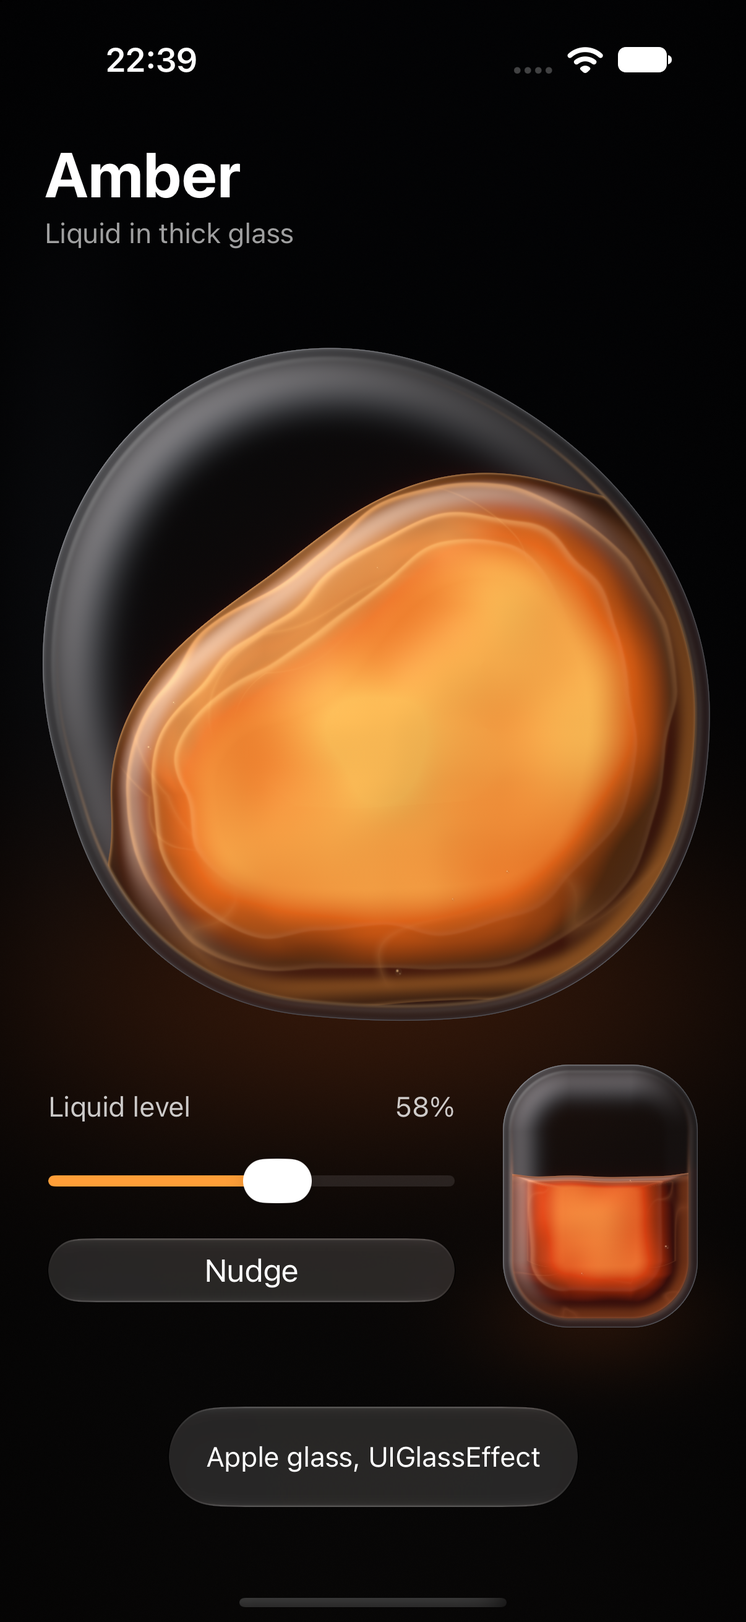
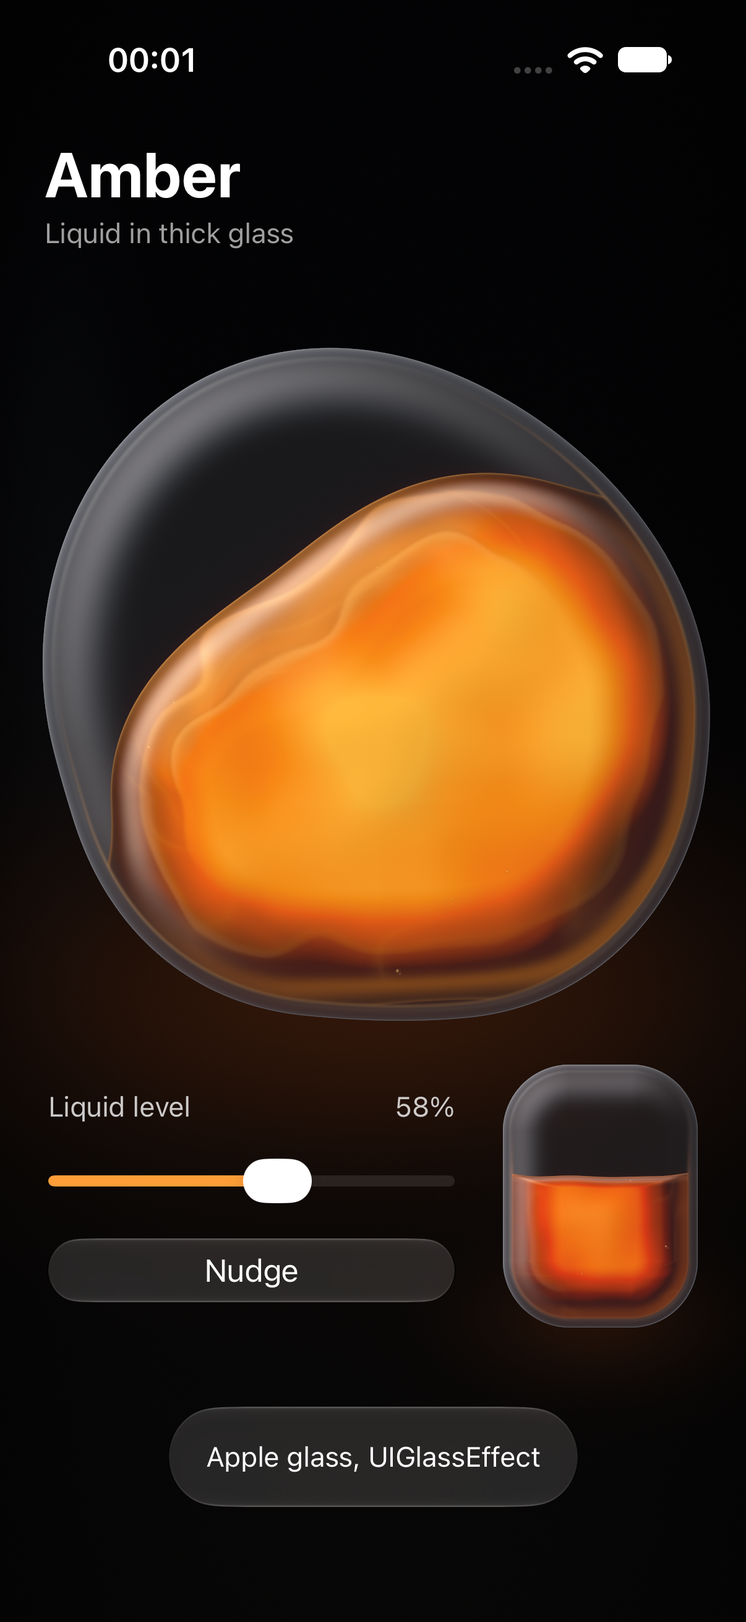
PRESENCE: a livelier body and edge without extra bend, a smooth cap join, a calmer amber vessel
GlassLighting.presence (refined look, opt-in): backdrop pickup, gain, inner edge glow, deeper far side, inlay shade; the plain rim refraction is feathered to nothing at the outline. Softer vessel sheets. Paper desk captions fixed. Recaptured pages beside the native twin.

diff --git a/Sources/GlassWeave/GlassLighting.swift b/Sources/GlassWeave/GlassLighting.swift
@@ -44,6 +44,7 @@ internal import GlassWeaveShaderTypes
 /// | ``edgeDepth`` | normalized | 0...1 | 0 | The refined look's thick-slab shading across the bevel: deeper (darker) toward the side away from the light, a faint inner light on the lit side. 0 draws none. Ignored by ``Look/classic``. |
 /// | ``banding`` | normalized | 0...1 | 0 | The polished finishes' reflection bands across the bevel (``Finish/chrome(tint:)``, ``Finish/prismatic(spread:saturation:phase:)``): alternating bright and dark stripes, as in a polished metal ring. 0 draws none. |
 /// | ``glints`` | normalized | 0...1 | 0 | Small bright glints at fixed angles around a polished rim (one facing the light, a weaker opposite, two faint at the sides), colored by the thin film with the prismatic finish. 0 draws none. |
+/// | ``presence`` | normalized | 0...1 | 0 | The refined look's liveliness without any extra bend: the body picks up the colors behind it softly (a few wide samples of the backdrop), lifts a little in luminance, and the inner edge carries a soft glow that follows the backdrop's color, brighter on the lit side, with a deeper far side. 0 draws none. Ignored by ``Look/classic``. Experimental. |
 ///
 /// **The model** (`docs/glass-optics.md`). With the viewer's direction
 /// `V = (0, 0, 1)` and the light's `L`, the reflected fraction is Schlick's
@@ -173,7 +174,7 @@ public struct GlassLighting: Hashable, Sendable {
         case indexOfRefraction, fresnel, specular, reflection, bloom, bloomWidth, bandWidth
         case chromeTintRed, chromeTintGreen, chromeTintBlue
         case prismaticSpread, prismaticSaturation, prismaticPhase
-        case edgeDepth, banding, glints
+        case edgeDepth, banding, glints, presence
         /// The azimuth passed to ``GlassRenderer/setLightOffset(azimuth:elevation:)``.
         case lightOffsetAzimuth
         /// The elevation passed to ``GlassRenderer/setLightOffset(azimuth:elevation:)``.
@@ -226,6 +227,15 @@ public struct GlassLighting: Hashable, Sendable {
     /// chrome or prismatic finish): at fixed angles from the key light, with
     /// the thin-film hue under the prismatic finish. 0 draws none.
     public var glints: Double
+    /// The refined look's presence, 0...1 (experimental): a livelier body and
+    /// edge that add no bend. The body picks up the backdrop's colors gently
+    /// (a few wide samples of the backdrop around each pixel, never a lens
+    /// offset), gains a slight luminance lift, and the inner edge carries a
+    /// thin glow in the backdrop's own color, brighter on the lit side and
+    /// deeper on the far side. A lens inlay gets a soft shade and its own rim
+    /// light. 0 draws none, byte for byte. Reduce Transparency and Increase
+    /// Contrast remove it.
+    public var presence: Double
 
     /// The longest the bloom can reach: 24 points.
     public static let maximumBloomWidth = 24.0
@@ -250,8 +260,10 @@ public struct GlassLighting: Hashable, Sendable {
         look: Look = .classic,
         edgeDepth: Double = 0,
         banding: Double = 0,
-        glints: Double = 0
+        glints: Double = 0,
+        presence: Double = 0
     ) {
+        self.presence = presence
         self.edgeDepth = edgeDepth
         self.banding = banding
         self.glints = glints
@@ -341,7 +353,7 @@ public struct GlassLighting: Hashable, Sendable {
             (.keySize, key.size),
             (.indexOfRefraction, indexOfRefraction), (.fresnel, fresnel), (.specular, specular),
             (.reflection, reflection), (.bloom, bloom), (.bloomWidth, bloomWidth),
-            (.edgeDepth, edgeDepth), (.banding, banding), (.glints, glints),
+            (.edgeDepth, edgeDepth), (.banding, banding), (.glints, glints), (.presence, presence),
         ]
         if let rim {
             checks += [
@@ -380,6 +392,7 @@ public struct GlassLighting: Hashable, Sendable {
         result.edgeDepth = unit(edgeDepth)
         result.banding = unit(banding)
         result.glints = unit(glints)
+        result.presence = unit(presence)
         result.bloomWidth = min(max(bloomWidth, 0), Self.maximumBloomWidth)
         result.bandWidth = bandWidth.map { min(max($0, 0), maximumLength) }
         switch finish {
@@ -471,7 +484,12 @@ extension GlassPanelGeometry {
             record.keyColor = SIMD4(keyColor, exponent(lighting.key.size))
             record.rim = SIMD4(rimDirection, rimIntensity)
             record.rimColor = SIMD4(rimColor, rimExponent)
-            record.tint = SIMD4(tint, lighting.look == .refined ? 1 : 0)
+            // The look rides in `tint.w`: 0 classic, 1 refined. The presence
+            // adds its 8-bit level to the refined 1 (an exactly representable
+            // integer), so a refined panel without it keeps the value 1.
+            let presenceLevel: Float = lighting.look == .refined
+                ? Float((min(max(lighting.presence, 0), 1) * 255).rounded()) : 0
+            record.tint = SIMD4(tint, lighting.look == .refined ? 1 + presenceLevel : 0)
             // The refined look's enhancements ride in `prism.w`, which was zero
             // padding: three 8-bit fields (depth, banding, glints), exactly
             // representable in a float; zero when none is on.

diff --git a/Examples/GlassWeaveLab/GlassWeaveLab/MaterialBenchViewController.swift b/Examples/GlassWeaveLab/GlassWeaveLab/MaterialBenchViewController.swift
@@ -347,7 +347,7 @@ final class MaterialBenchViewController: UIViewController {
             pill.light = pooledLight()
             pill.lens.dispersionTaps = .sixTap
             pill.lens.dispersion = 0.45
-            pill.lens.inlays = [GlassLens.Inlay(radius: 40, height: 14, profile: .dome, rimLine: 0.25)]
+            pill.lens.inlays = [GlassLens.Inlay(radius: 40, height: 14, profile: .dome, rimLine: 0.3)]
             return pill
         }()),
         Demo(caption: String(localized: "Dome, three-tap"), parameters: {
@@ -399,7 +399,7 @@ final class MaterialBenchViewController: UIViewController {
             pill.light = pooledLight()
             pill.lens.dispersionTaps = .sixTap
             pill.lens.dispersion = 0.45
-            pill.lens.inlays = [GlassLens.Inlay(radius: 40, height: 14, profile: .dome, rimLine: 0.25)]
+            pill.lens.inlays = [GlassLens.Inlay(radius: 40, height: 14, profile: .dome, rimLine: 0.3)]
             pill.tint = GlassTint(red: 0.8, green: 0.85, blue: 1, strength: 0.03)
             pill.frost = GlassFrost(profile: .uniform, sigma: 4.5, grain: 0.2, thickness: 1, saturation: 1.2, brightness: 1.05)
             return pill
@@ -427,7 +427,7 @@ final class MaterialBenchViewController: UIViewController {
             Demo(caption: String(localized: "Rounded rectangle"), parameters: RefinedLook.panel(corner: 28, bezel: 18, dark: dark)),
             Demo(caption: String(localized: "Apple clear, GlassWeave thick lens"), parameters: {
                 var lens = RefinedLook.lens(dark: dark)
-                lens.lens.inlays = [GlassLens.Inlay(radius: 22, height: 8, profile: .dome, rimLine: 0.25)]
+                lens.lens.inlays = [GlassLens.Inlay(radius: 22, height: 8, profile: .dome, rimLine: 0.3)]
                 return lens
             }()),
         ]
@@ -449,7 +449,7 @@ final class MaterialBenchViewController: UIViewController {
             pill.light = pooledLight()
             pill.lens.dispersionTaps = .sixTap
             pill.lens.dispersion = 0.45
-            pill.lens.inlays = [GlassLens.Inlay(radius: 40, height: 14, profile: .dome, rimLine: 0.25)]
+            pill.lens.inlays = [GlassLens.Inlay(radius: 40, height: 14, profile: .dome, rimLine: 0.3)]
             return pill
         }()),
         Demo(caption: String(localized: "Smoky dome: a calm gel behind clear glass"), parameters: {
@@ -483,7 +483,7 @@ final class MaterialBenchViewController: UIViewController {
         }()),
         Demo(caption: String(localized: "Lens pill, 8 points from the button"), parameters: {
             var pill = RefinedLook.lens(bezel: 34, thickness: 26, dark: false)
-            pill.lens.inlays = [GlassLens.Inlay(radius: 24, height: 10, profile: .dome, rimLine: 0.25)]
+            pill.lens.inlays = [GlassLens.Inlay(radius: 24, height: 10, profile: .dome, rimLine: 0.3)]
             pill.grounding = paperGrounding(offset: 8, blur: 18, opacity: 0.2, caustic: 0.12)
             return pill
         }()),
@@ -925,6 +925,16 @@ final class MaterialBenchViewController: UIViewController {
             // A caption is at least as wide as a small button's neighbours.
             if mode == .compare {
                 captionLabels[index].frame = CGRect(x: left, y: frames[index].maxY + 4, width: width, height: captionHeight + 14)
+                continue
+            }
+            if mode == .paper, index < 2 {
+                // PRESENCE: the button's caption and the pill's caption share one
+                // line under the row; they used to overlap (each was at least 300
+                // points wide, centered on its own panel). The button's stays
+                // under the button, the pill's starts after it.
+                let x = index == 0 ? frames[0].minX : frames[0].minX + 124
+                let w = index == 0 ? 116 : frames[1].maxX - x
+                captionLabels[index].frame = CGRect(x: x + 4, y: frames[index].maxY + 4, width: w - 8, height: captionHeight + 14)
                 continue
             }
             let wide = mode == .chrome || mode == .paper

diff --git a/Examples/GlassWeaveLab/GlassWeaveLab/RefinedLook.swift b/Examples/GlassWeaveLab/GlassWeaveLab/RefinedLook.swift
@@ -13,17 +13,29 @@ enum RefinedLook {
     /// The one light direction of the lab: the upper left.
     static let azimuth = 315.0
 
+    /// PRESENCE: the level every refined panel of the lab carries
+    /// (`GlassLighting.presence`): the body picks up the backdrop's colors
+    /// gently and lifts a little, the inner edge glows in the backdrop's hue,
+    /// the far side is deeper. It bends nothing.
+    static let presence = 0.85
+
     /// The refined light model for a dark or a light page.
     static func lighting(dark: Bool, finish: GlassLighting.Finish = .dielectric) -> GlassLighting {
-        .refined(azimuth: azimuth, environment: dark ? .studioDark : .studioLight, finish: finish)
+        var lighting = GlassLighting.refined(azimuth: azimuth, environment: dark ? .studioDark : .studioLight, finish: finish)
+        lighting.presence = presence
+        return lighting
     }
 
     /// A quiet tint: a whisper of the page's own value, so the body is a clear
-    /// material and not a colored gel.
-    static func tint(dark: Bool, strength: Double = 0.10) -> GlassTint {
+    /// material and not a colored gel. PRESENCE: a fifth as strong on dark pages
+    /// (0.02 against 0.10): a gray mixed in linear light desaturated the
+    /// backdrop under the glass, which read as a gray cast; the backdrop's own
+    /// color now comes through, and the presence lifts it. Dark pages carry
+    /// 0.02 (a trace).
+    static func tint(dark: Bool, strength: Double = 0.02) -> GlassTint {
         dark
             ? GlassTint(red: 0.62, green: 0.64, blue: 0.70, strength: strength)
-            : GlassTint(red: 1, green: 1, blue: 1, strength: strength * 2.5)
+            : GlassTint(red: 1, green: 1, blue: 1, strength: strength * 10)
     }
 
     /// A soft, low-contrast shadow for light pages: one drop, the faintest
@@ -87,7 +99,9 @@ enum RefinedLook {
     /// slab (a deeper far side, a faint inner light on the lit side), and with
     /// a polished finish, reflection stripes and small glints.
     static func enhancedLighting(dark: Bool, finish: GlassLighting.Finish = .dielectric) -> GlassLighting {
-        .enhanced(azimuth: azimuth, environment: dark ? .studioDark : .studioLight, finish: finish)
+        var lighting = GlassLighting.enhanced(azimuth: azimuth, environment: dark ? .studioDark : .studioLight, finish: finish)
+        lighting.presence = presence
+        return lighting
     }
 
     /// A soft shadow that also shows on dark pages: a broad, low drop in a
@@ -137,7 +151,8 @@ enum RefinedLook {
         var p = parameters
         guard p.lighting.look == .refined, !p.fill.isActive else { return p }
         let dark = p.lighting.environment == .studioDark
-        p.lighting.edgeDepth = max(p.lighting.edgeDepth, 0.6)
+        p.lighting.edgeDepth = max(p.lighting.edgeDepth, p.lens.profile == .rim ? 0.6 : 0.75)
+        p.lighting.presence = max(p.lighting.presence, presence)
         p.lighting.fresnel = max(p.lighting.fresnel, 0.7)
         p.lighting.specular = max(p.lighting.specular, 0.6)
         if case .dielectric = p.lighting.finish {} else {

diff --git a/Examples/GlassWeaveLab/GlassWeaveLab/Studies/VesselStudyViewController.swift b/Examples/GlassWeaveLab/GlassWeaveLab/Studies/VesselStudyViewController.swift
@@ -205,7 +205,9 @@ final class VesselStudyViewController: StudyViewController {
             wallThickness: 8,
             colors: [Self.color(0.30, 0.05, 0.01), Self.color(1.00, 0.40, 0.05), Self.color(1.00, 0.72, 0.32)],
             emission: 0.85, absorption: 0.7,
-            sheets: GlassFill.Sheets(count: 3, spacing: 16, edge: 0.45, wobble: 0.6),
+            // PRESENCE: two soft sheets, far apart and bent by more noise, so
+            // they read as folds in one gel and not as contour lines.
+            sheets: GlassFill.Sheets(count: 2, spacing: 24, edge: 0.34, wobble: 0.85),
             wallLine: 0.45,
             bubbles: GlassFill.Bubbles(count: 6, size: 2.6, speed: 0.6, seed: 7),
             gloss: 0.7,

diff --git a/Sources/GlassWeaveUIKit/GlassAccessibilityPolicy.swift b/Sources/GlassWeaveUIKit/GlassAccessibilityPolicy.swift
@@ -205,6 +205,9 @@ public enum GlassAccessibilityPolicy {
         presented.edgeDepth = 0
         presented.banding = 0
         presented.glints = 0
+        // The presence (the body's backdrop pickup and lift, the inner edge
+        // glow) is decoration too: removed, so the surface reads as before.
+        presented.presence = 0
         // A hairline that contrasts with the surface, so the boundary shows
         // on an opaque or white surface too.
         presented.crispOutline = true

diff --git a/Sources/GlassWeaveShaderTypes/include/GlassWeaveShaderTypes.h b/Sources/GlassWeaveShaderTypes/include/GlassWeaveShaderTypes.h
@@ -222,7 +222,9 @@ typedef enum GWLightingEnvironment {
 /// - `rim`, `rimColor`: the optional second light as `key`, `keyColor`;
 ///   intensity 0 draws no rim light.
 /// - `tint`: the chrome tint in linear light (`xyz`) and the look in `w`: 0
-///   the GW-23 model, 1 the refined (Apple-grade) look. The layout is
+///   the GW-23 model, 1 the refined (Apple-grade) look, and with the refined
+///   look 1 plus the presence level (an integer 0...255, 0 for none): the
+///   shader reads `w > 0.5` as refined and `w - 1` as the level. The layout is
 ///   unchanged: `w` was zero padding that the GW-23 shader never reads.
 /// - `prism`: the prismatic finish's spread in turns of hue around the rim
 ///   (`x`), saturation 0...1 (`y`), phase in turns (`z`). `w` was zero padding

diff --git a/docs/glass-optics.md b/docs/glass-optics.md
@@ -1190,3 +1190,88 @@ The user's feedback on the enhanced pictures: "the bends are way too visible, no
 
 **Limits.** Tuned by eye in three rounds beside a real `UIGlassEffect` twin on the studies; the lens page and the touch page on a dot grid still show a small, smooth stretch of the dots in the first few points inside the rim (that is what a lens does; it has no start line, kink or petal). The CPU mirror of the window covers the host profile without inlays only. No new tests beyond the frozen-baseline safety tests; no device run; no M5 cost run.
 
+
+## Presence: a livelier body and edge, with no extra bend (PRESENCE)
+
+> Experimental. `GlassLighting.presence` may change before a stable release.
+
+The last independent review said the restraint cost presence: over the orbs the
+refined capsule and rounded rectangle read as a clear, slightly gray panel next to
+the native glass, whose body and edge carry the colors behind it, and the thick-lens
+capsule with its inlaid dome was nearly flat. The user's rule stands: bends stay as
+soft as they were. So every term here is a color or a light term; no lens thickness,
+maximum offset, dispersion or touch ring was raised, and one refraction term was
+lowered.
+
+**What made the gray cast.** The lab's tint mixed 10 percent of a mid gray into the
+body in linear light. Over a dark saturated color (a shaded red orb) that more than
+doubles the green and blue channels, which is a desaturation, not a veil. The same
+holds for any "lift" that adds a gray. The fix is to take the gray out (`RefinedLook.tint`
+is 0.02 on dark pages, was 0.10; 0.20 on light, was 0.25) and to lift by gain, which
+keeps the hue.
+
+**`GlassLighting.presence` (0...1, default 0).** Refined look only, ignored by
+`.classic`. Packed with the look in `GWLightingUniforms.tint.w` as `1 + level`
+(level 0...255); the shader reads `w > 0.5` as refined and `w - 1` as the level, so a
+refined panel without presence keeps the value 1 and the record keeps its 160 bytes
+and its offsets. Normalization: a non-finite value is rejected with
+`GlassParameterError.nonFiniteLighting(.presence)`, a finite one is clamped to 0...1.
+At 0 nothing below runs and the picture is the shader's old bytes (the frozen-baseline
+suites check this). Shader: `Glass.metal`, "Presence (refined look)".
+
+| Term | What it does | Values (at level 1) |
+| --- | --- | --- |
+| Backdrop pickup | The body mixes toward a soft, slightly more vivid average of the backdrop around the pixel (13 bilinear samples on two rings, radius 0.7 of the bevel, at most half the inscribed radius). No sample is moved: it only colors the body. | 14 % in the middle, 28 % at the rim; the average is 1.3 times more saturated than the backdrop |
+| Saturation | The body's own color. | + 14 % |
+| Luminance gain | A gain, so the hue is kept; a little more toward the light. | + 12 % on dark pages (+ 4 % on light), times 1 +- 0.5 across the panel, and a trace (1.2 %) of the sky |
+| Inner edge glow | A thin glow just inside the outline in the backdrop's own hue, brightened (the sky's color where the backdrop is nearly black), brighter toward the light. | falls off over an eighth of the bevel plus 1.5 px; 6 % all round and 38 % more on the lit side (half on light pages; half over a nearly black backdrop) |
+| Deeper far side | A soft shade just inside the hairline on the side away from the light. | up to 30 %, from 0.4 px in, over 0.3 of the bevel plus 2 px |
+| Inlay shade | A lens inlay (the dome button) gets a shade on its far side that grows toward its base, a lift on its lit side, and a faint contact shade on the glass beside it, away from the light. Its rim light is the existing `rimLine` (0.3 in the lab, was 0.25). | far side 32 %, lit side 22 % of the sky, contact 22 % |
+| Feathered rim refraction | A plain rim refraction (no lens) is multiplied by `smoothstep(0, 0.22 bezel, depth)`. It is never above the plain value. | see the cap below |
+
+**The cap artifact (item 4).** The plain rim refraction moves the sample by
+`maxDisplacement x (1 - depth / bezel)^2`, which is its largest, about 5 points on the
+capsule of the comparison page, exactly at the outline, while outside the outline
+nothing moves. That is a step in the displacement at the silhouette: where an orb's
+edge crosses the end of the capsule, the orb's edge outside and inside the glass
+differ by about 4 points, joined by a straight diagonal, with a small gray wedge
+(the backdrop showing through where the sample came from the other side of the edge).
+It is not the lens falloff or the soft window (those start at 0 at the outline); it was
+the legacy rim path. The feather brings the displacement to 0 at the outline over the
+first fifth of the bevel, so the orb edge bends in smoothly. Captures:
+`gw-presence-cap-before-*`, `gw-presence-cap-after-*` (4 times zoom of the same
+region). The feather rides on `presence`, so panels without it keep the old rim.
+
+**Accessibility (written in `GlassAccessibilityPolicy.presentedLighting`).** Reduce
+Transparency and Increase Contrast set `presence` to 0 (with the other decoration):
+the surface reads as before, with the crisp hairline (captures
+`gw-presence-compare-reduce-transparency-*`, `gw-presence-compare-increase-contrast-*`).
+That also returns the plain rim's step under Increase Contrast, which keeps the panel as
+authored; Reduce Transparency draws an opaque surface. Reduce Motion changes nothing.
+The glow and the shades stay inside a tenth of the panel or follow `bandWidth` terms;
+the body gain is at most 12 percent and the label contrast is the frost scrim's
+business.
+
+**Amber vessel (item 5).** The sheets read as contour lines because each sheet is an
+iso-offset of the gel's distance field with its own thin bright edge, so three of them
+look like nested outlines. `GlassFill.richness` now also softens the sheets (the edge
+2 times wider at richness 1 with 28 % less brightness, the glow behind it wider) and
+its veins (ridge width 5 instead of 9, strength 0.07 instead of 0.13); the study uses
+two sheets, 24 points apart, edge 0.34, wobble 0.85. The specular window and the warm
+thin edges are unchanged.
+
+**Lab changes.** `RefinedLook`: `presence` 0.85 in `lighting` and `enhancedLighting`,
+the lighter tint, `enhance` raises `edgeDepth` to 0.75 on a lens panel (0.6 on a plain
+one) and sets the presence. The paper desk's two captions are placed on one line under
+the row (the button's under the button, the pill's after it); they used to overlap
+(each was at least 300 points wide).
+
+**Result and limits.** On the orbs the capsule, circle and rounded rectangle keep
+their colors (a red orb stays a saturated red under the glass), carry a thin lit rim and
+a soft far side, and the thick-lens capsule reads as thick glass with a visible dome.
+Next to the native glass they are the same family, with a clearer body (the native body
+is frosted). Tuned by eye in four rounds beside a real `UIGlassEffect` twin; no CPU
+mirror; no new test (fast pass); no device run; the 13 samples per pixel are measured by
+no one yet (the M5 run is a later step). The paper-desk marble is a little milky at its
+lit upper left. The presence is not a substitute for frost: a sharp backdrop edge still
+shows sharp.

diff --git a/tasks/todo.md b/tasks/todo.md
@@ -950,3 +950,27 @@ Checklist audit (GW-11 and POLISH): GW-11 had 4 boxes ticked and 5 open before t
 Captures: the merged tree's twelve pages are pixel-identical to the committed POLISH captures (`gw-final-study-*`, `gw-12-touch-orbs-*`, `gw-22-lens-orbs-*`, `gw-23-chrome-page-*`, `gw-25-paper-desk-*`, `gw-26-shapes-orbs-*`, `gw-refine-compare-orbs-*`, `gw-polish-merge-stage-*`), so no new capture was committed.
 
 Visual verdict, honest: see HANDOFF.md, "Visual verdict after POLISH". Limits: My Mac and the simulators only; the timing is one Mac (an Apple M3 Max, not an M5), not a device; no new tests.
+
+## PRESENCE: livelier body and edge without extra bend (after VERIFY-ROUND3)
+
+**Description:** The last independent review: "the restraint costs presence" (the refined capsule and rounded rectangle read as a clear, slightly gray panel next to the native one; the thick-lens capsule with its inlaid dome is nearly flat). The user's rule: bends stay as soft as they are. Add presence through color and light only: the body picks up the backdrop gently with a slight lift, the edge gets a soft lit-side glow and a deeper far side, the inlaid dome gets a rim light and a shade, the cap join on the compare page becomes smooth, the amber vessel becomes one clean gel, the paper desk captions stop overlapping. All opt-in; the off paths stay byte-identical.
+
+**Dependencies:** POLISH, ENHANCE-LOOK, REFINE, GW-28. **Scope:** M, 7 source files plus the lab, no new tests.
+
+**Acceptance criteria:**
+- [x] No bend was raised: no lens thickness, maximum offset, dispersion or touch ring changed; the plain rim refraction is feathered to 0 at the outline (never above its old value); `rimLine` of the lab's domes went from 0.25 to 0.3 (a light term, not a bend).
+- [x] `GlassLighting.presence` (0...1, default 0, refined look only): body pickup, saturation and gain, an inner edge glow in the backdrop's hue that is brighter on the lit side, a deeper far side, an inlay shade; packed in `tint.w` as `1 + level` (record size 160 and offsets unchanged); non-finite rejected with `nonFiniteLighting(.presence)`, finite clamped.
+- [x] Accessibility rows in code: Reduce Transparency and Increase Contrast set `presence` to 0 (`GlassAccessibilityPolicy`); Reduce Motion changes nothing. Captures `gw-presence-compare-reduce-transparency-*` and `gw-presence-compare-increase-contrast-*`.
+- [x] The gray cast is gone on the compare page (cause: a gray tint mixed in linear light; `RefinedLook.tint` 0.02 on dark pages) and the body reads livelier beside the native twin (`gw-refine-compare-{orbs,charcoal,paper}-*`).
+- [x] Edge light: a brighter, softly falling lit-side rim, a deeper far side, a thin inner glow in the backdrop's hue; one light direction, no glare dots or halos.
+- [x] The thick-lens capsule with the dome reads as thick glass (edgeDepth 0.75, the far-side shade, the glow) and the dome has a rim light and a shade (`gw-refine-compare-orbs-*`, `gw-22-lens-orbs-*`, `gw-24b-frost-*`).
+- [x] The cap artifact (a step in the plain rim refraction at the outline) is fixed: `gw-presence-cap-before-*` and `gw-presence-cap-after-*`.
+- [x] Amber vessel: two soft sheets, softer veins and edges; one clean gel, specular window and warm edges kept (`gw-final-study-vessel-*`, `gw-presence-vessel-before-*`).
+- [x] Paper desk captions no longer overlap (`gw-25-paper-desk-*`, `gw-presence-paper-desk-before-*`).
+- [x] The presence is applied through the shared lab helper (`RefinedLook`) and every study and page was recaptured on the iPhone 18 Pro simulator beside a real `UIGlassEffect` twin where the page has one: pill, pearl, shelf, vessel, compare (three backdrops), lens, chrome, paper desk, shapes, touch, merge, frost, versus lens row.
+- [x] The frozen-baseline safety suites pass unmodified (see the Evidence).
+- [ ] A readback test that `presence` 0 draws the old bytes, and a numeric test of the packing. (fast pass: not tested; the existing `GlassBaselineGW12`, `GW13` and `GW20` to `GW25`, `GW28` suites draw refined panels with presence 0 against the frozen shaders)
+- [ ] Accessibility tests for the presence rows. (fast pass: not tested)
+- [ ] Device sign-off and the M5 cost of the 13 extra samples per pixel. (device only / fast pass: not run)
+
+**Evidence (2026-11-10, fast pass):** End batch, once, no new test: package scheme on My Mac 211 passed, 0 failed (`xcresulttool`: 208 package tests plus 3 characterization tests); on the iPhone 18 Pro simulator 292 passed, 0 failed, 2 skipped (the skips are the two Metal 4 comparison tests, which skip on the simulator as before), so the frozen-baseline suites (`GlassBaselineGW12`, `GW13`, `GW20` to `GW25`, `GW28`) passed unmodified. No lab UI test was added or changed, so none was run. What exists: `GlassLighting.presence` (`GlassLighting.swift`, the packing in `GlassPanelGeometry.Lighting`, the policy row in `GlassAccessibilityPolicy.swift`), the shader code "Presence (refined look)" and the feathered rim refraction in `Glass.metal`, the softer vessel sheets and veins under `GlassFill.richness`, the retuned `RefinedLook` and the paper desk caption layout. Notes: [glass-optics](../docs/glass-optics.md#presence-a-livelier-body-and-edge-with-no-extra-bend-presence). The Xcode MCP bridge could not open a workspace, so `xcodebuild` was used. Captures (iPhone 18 Pro simulator, inspected, four rounds, beside a real `UIGlassEffect` twin): `gw-refine-compare-{orbs,charcoal,paper}-*`, `gw-final-study-*` and `gw-29-study-*-vs-native-*`, `gw-22-lens-orbs-*`, `gw-23-chrome-page-*`, `gw-25-paper-desk-*`, `gw-26-shapes-orbs-*`, `gw-12-touch-orbs-*`, `gw-polish-merge-stage-*`, `gw-24b-frost-*`, `gw-29-versus-lens-light-*`, plus the before pictures `gw-presence-*-before-*`. Limits: tuned by eye; the paper marble is a little milky at its upper left; the glow reach is relative to the bevel, not to a fixed number of points; no CPU mirror; no M5 run.
